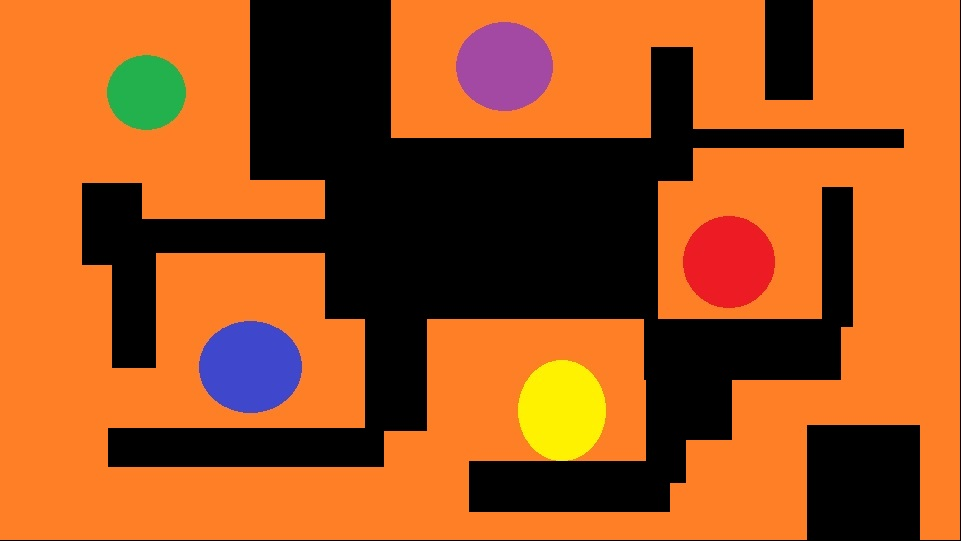
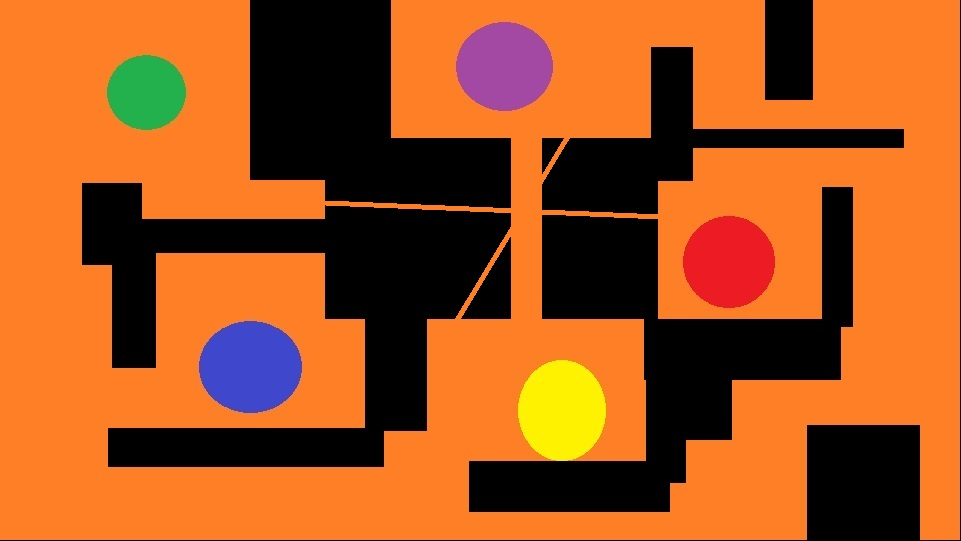
Added explanation to ItemList, color changes for every path

Changed region(s): [[0.3434, 0.2366, 0.6868, 0.5915], [0.4683, 0.5323, 0.4995, 0.5915]]

diff --git a/PathFind.py b/PathFind.py
@@ -4,6 +4,7 @@ import math
 import sys
 import pygame
 import time
+import random
 
 #pygame.mixer.init()
 
@@ -268,6 +269,7 @@ def reader(file, pixel_size):
                 depLocations["purple"].append((x,y))
             if pixel in colo[0]["yellow"]:
                 depLocations["yellow"].append((x, y))
+
     centers = depCenters(depLocations)
     return graph, graphw, centers
 
@@ -328,7 +330,7 @@ def main():
 ###############################################################################################
     pixel_size = 20 #10
     print("Pixel size: " + str(pixel_size))
-    file = "walltest.jpg"
+    file = "star.jpg"
     data = reader(file, pixel_size)
     map = Image.open(file)
     size = map.size
@@ -341,7 +343,7 @@ def main():
     blue_di = dijkstra(data[0], data[1], depLocations["blue"])
     red_di = dijkstra(data[0], data[1], depLocations["red"])
     purple_di = dijkstra(data[0], data[1], depLocations["purple"])
-    #yellow_di = dijkstra(data[0], data[1], depLocations["yellow"])
+    yellow_di = dijkstra(data[0], data[1], depLocations["yellow"])
 
     window = pygame.display.set_mode((width, height))
     pygame.display.set_caption("CampusNavi")
@@ -374,9 +376,9 @@ def main():
                     end = None
 
         if start != None:
-            pygame.draw.circle(map, red, start, int(pixel_size/4))
+            pygame.draw.circle(map, red, start, int(pixel_size))
         if end != None:
-            pygame.draw.circle(map, red, end, int(pixel_size/4))
+            pygame.draw.circle(map, red, end, int(pixel_size))
 
             '''
             startx = start[0]
@@ -388,8 +390,7 @@ def main():
             for dep in depLocations:
 
                 for dep2 in depLocations:
-
-
+                    newcol = (random.randint(0, 255), random.randint(0, 255), random.randint(0, 255))
                     startx = depLocations[dep][0]
                     starty = depLocations[dep][1]
                     endx = depLocations[dep2][0]
@@ -402,6 +403,7 @@ def main():
                                 start = (startx + x, starty + y)
                             if (endx + x, endy + y) in data[0].keys():
                                 end = (endx + x, endy + y)
+
                     print("Staring location: (" + str(start[0]) + "," + str(start[1]) + ")")
                     print("Ending location: (" + str(end[0]) + "," + str(end[1]) + ")")
 
@@ -419,8 +421,8 @@ def main():
                         while prev[next]:
                             steps += 1
                             path.append(next)
-                            #print(next)
-                            pygame.draw.circle(map, red, next, 7)
+
+                            pygame.draw.circle(map, newcol, next, 7)
                             next = prev[next]
                         path.append(next)
                         print("Number of steps: " + str(steps))
@@ -430,6 +432,7 @@ def main():
                     pygame.display.update()
                     window.blit(map, (0, 0))
                     time.sleep(0.5)
+
         pygame.display.update()
         window.blit(map, (0, 0))
 main()
